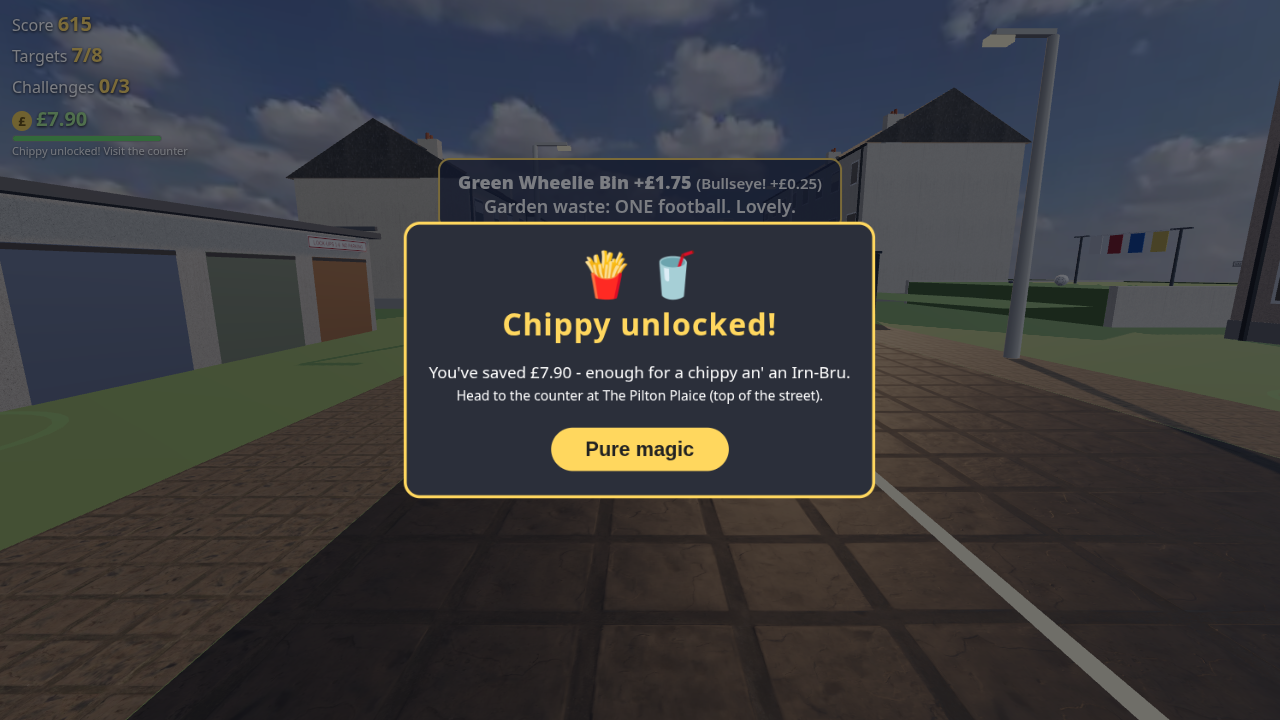
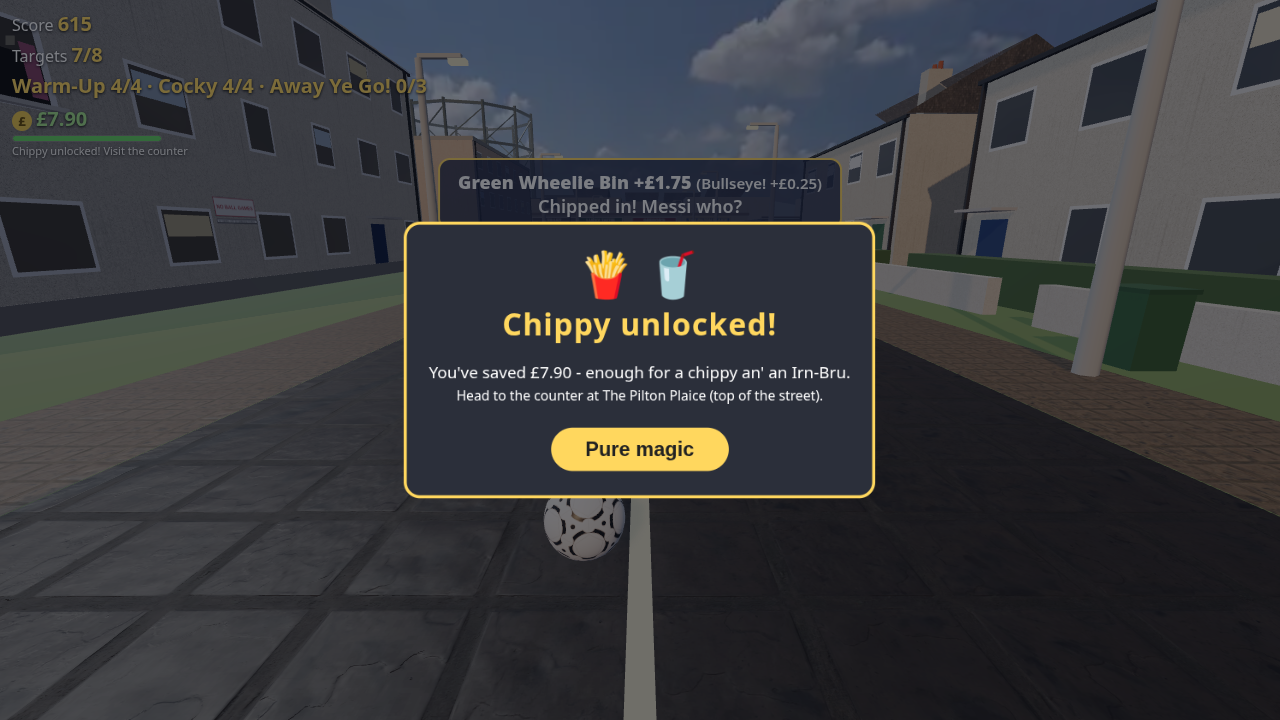
WIP Phase 5: tiers, Street Legend/Pilton Special balls, chippy menu (Wee Supper, Munchie Box), per-level saves, unlock toasts, trainers/boots, BALL rescue 10p, tests

diff --git a/src/main.js b/src/main.js
@@ -4,7 +4,7 @@ import * as CANNON from 'cannon-es';
 import { HDRLoader } from 'three/examples/jsm/loaders/HDRLoader.js';
 import { PRESET, PRESET_SOURCE, SHOW_PERF, DYNRES, choosePreset } from './settings.js';
 import { LEVEL, LEVELS, LEVEL_ORDER, travelTo } from './levels/index.js';
-import { unlocks, completeChallenge, selectBall, resetProgress, BALLS, ITEMS, REWARDS, saveUnlocks } from './unlocks.js';
+import { unlocks, recordDone, levelDone, tierCount, TIERS, selectBall, selectBoots, BOOTS, resetProgress, BALLS, ITEMS, saveUnlocks } from './unlocks.js';
 import { wallet, saveWallet, earn, buySupper, resetWallet, fmt, GOAL, BONUS, cashFor } from './wallet.js';
 import { ballTexture, skyTexture, texManager, texStats } from './textures.js';
 import { Sfx } from './audio.js';
@@ -86,6 +86,8 @@ const { targets, dynamics, pigeons, materials, views } = built;
 const SPAWN_YAW = LEVEL.spawnYaw * Math.PI / 180, BOUNDS = LEVEL.bounds;
 const challenges = built.challenges || [];
 const allTargets = targets.concat(challenges); // challenges share the scoring code but have their own counter
+for (const t of targets) t.tier ||= t.diff === 'hard' ? 'tricky' : 'easy';
+{ const d = levelDone(LEVEL.id); for (const t of allTargets) if (d[t.id]) { t.done = true; t.ring.material.color.set(0x5fd35f); } } // saved progress
 const targetById = Object.fromEntries(allTargets.map((t) => [t.id, t]));
 // Static bodies were positioned after construction: refresh their AABBs once, or AABB broadphase misses them.
 // (This stale-AABB effect is also what made SAPBroadphase look "broken" in v1.)
@@ -113,14 +115,27 @@ const balls = BALL_HOMES.map(([x, y, z]) => {
 });
 
 // boot (kick animation), attached to the camera: one mesh
-const bootGeo = (() => {
-  const a = new THREE.BoxGeometry(0.12, 0.5, 0.12).translate(0, 0.25, 0).toNonIndexed(), b = new THREE.BoxGeometry(0.14, 0.1, 0.28).translate(0, 0, -0.08).toNonIndexed();
-  const col = (g, c) => { const k = new THREE.Color(c), n = g.attributes.position.count, arr = new Float32Array(n * 3); for (let i = 0; i < n; i++) arr.set([k.r, k.g, k.b], i * 3); g.setAttribute('color', new THREE.BufferAttribute(arr, 3)); return g; };
-  col(a, 0x24324a); col(b, 0x111111);
-  const g = new THREE.BufferGeometry();
-  for (const k of ['position', 'normal', 'uv', 'color']) { const x = a.attributes[k], y = b.attributes[k], arr = new Float32Array(x.array.length + y.array.length); arr.set(x.array); arr.set(y.array, x.array.length); g.setAttribute(k, new THREE.BufferAttribute(arr, x.itemSize)); }
+// a scuffed trainer (default) or unlockable classic black boots, with shin; cosmetic only (no physics)
+function footGeo(style) {
+  const parts = [], B = (w, h, d, x, y, z, c) => parts.push([new THREE.BoxGeometry(w, h, d).translate(x, y, z).toNonIndexed(), c]);
+  B(0.11, 0.48, 0.11, 0, 0.33, 0.01, 0x3b4a63); // trouser shin
+  B(0.105, 0.07, 0.105, 0, 0.08, 0.01, style === 'boots' ? 0x101010 : 0xe8e8e4); // sock / collar
+  if (style === 'boots') {
+    B(0.13, 0.085, 0.27, 0, 0.035, -0.07, 0x141414); B(0.12, 0.05, 0.08, 0, 0.02, -0.19, 0x1c1c1c); B(0.135, 0.022, 0.285, 0, -0.016, -0.07, 0x2a2a2a);
+    for (const z of [-0.17, -0.09, 0.02]) for (const x of [-0.045, 0.045]) B(0.022, 0.02, 0.022, x, -0.035, z, 0x8a8a8a); // studs
+    B(0.03, 0.006, 0.12, 0, 0.08, -0.08, 0xdddddd); // white laces
+  } else {
+    B(0.135, 0.09, 0.26, 0, 0.035, -0.07, 0xdedcd6); B(0.125, 0.06, 0.08, 0, 0.02, -0.18, 0xc9c6bf); // upper + scuffed toe
+    B(0.145, 0.035, 0.285, 0, -0.012, -0.07, 0x8d8f93); B(0.04, 0.007, 0.12, 0, 0.082, -0.07, 0x9a9a9a); // sole, laces
+    B(0.137, 0.03, 0.06, 0, 0.03, -0.205, 0x6f6a62); // mucky scuff
+  }
+  const g = new THREE.BufferGeometry(), cols = [];
+  for (const [p, c] of parts) { const k = new THREE.Color(c), n = p.attributes.position.count, arr = new Float32Array(n * 3); for (let q = 0; q < n; q++) arr.set([k.r, k.g, k.b], q * 3); p.setAttribute('color', new THREE.BufferAttribute(arr, 3)); }
+  for (const k of ['position', 'normal', 'uv', 'color']) { const tot = parts.reduce((a, [p]) => a + p.attributes[k].array.length, 0), arr = new Float32Array(tot); let o = 0;
+    for (const [p] of parts) { arr.set(p.attributes[k].array, o); o += p.attributes[k].array.length; } g.setAttribute(k, new THREE.BufferAttribute(arr, parts[0][0].attributes[k].itemSize)); }
   return g;
-})();
+}
+const bootGeo = footGeo(unlocks.boots);
 const boot = new THREE.Mesh(bootGeo, materials.flat);
 boot.position.set(0.18, -1.05, -0.35); camera.add(boot);
 let kickAnim = 1;
@@ -131,7 +146,8 @@ const sfx = new Sfx();
 let score = 0, started = false, paused = true, chargeT0 = 0, toastTimer = 0;
 function toast(text, ms = 2400) { const el = $('toast'); el.innerHTML = text; el.classList.add('show'); clearTimeout(toastTimer); toastTimer = setTimeout(() => el.classList.remove('show'), ms); }
 function updateHud() { $('scoreVal').textContent = score; $('targetVal').textContent = `${targets.filter((t) => t.done).length}/${targets.length}`;
-  $('chal').classList.toggle('hidden', !challenges.length); if (challenges.length) $('chalVal').textContent = `${challenges.filter((c) => unlocks.done[c.id]).length}/${challenges.length}`; }
+  const tc = (tier) => `${tierCount(LEVEL.id, allTargets, tier)}/${allTargets.filter((x) => x.tier === tier).length}`;
+  $('chal').classList.remove('hidden'); $('chalVal').textContent = `Warm-Up ${tc('easy')} · Cocky ${tc('tricky')}` + (challenges.length ? ` · Away Ye Go! ${tc('legend')}` : ''); }
 updateHud();
 // ---------- wallet (pocket money) ----------
 let lastEarn = null;
@@ -159,34 +175,44 @@ function checkCounter() { // the chippy counter (West Pilton): buy a supper when
   if (!built.counter || simTime < counterCool) return;
   if (Math.hypot(player.position.x - built.counter.x, player.position.z - built.counter.z) > 1.8) return;
   counterCool = simTime + 4;
-  if (unlocks.items.includes('mars')) { openCounter(); return; }
-  if (buySupper()) { updateWallet(true); showGoal(true); }
-  else toast(`<b>The Pilton Plaice</b><br>"A supper's ${fmt(GOAL.pence)}, pal. You've got ${fmt(wallet.pence)}. Away an' hit some targets."`, 3000);
+  openCounter();
 }
+const MENU = ['wee', 'supper', 'munchie'];
 function openCounter() {
-  const m = ITEMS.mars;
   $('cntWallet').textContent = fmt(wallet.pence);
-  $('cntSupper').disabled = wallet.pence < GOAL.pence; $('cntMars').disabled = wallet.pence < m.pence;
+  for (const id of MENU) { const b = $('cnt_' + id), m = ITEMS[id], on = unlocks.items.includes(id);
+    b.textContent = on ? `${m.name} ${fmt(m.pence)}` : `🔒 ${m.name} (${m.how})`; b.disabled = !on || wallet.pence < m.pence; }
   $('cntLine').innerHTML = '"What can I get ye, pal?"';
   $('counterCard').classList.remove('hidden'); if (document.pointerLockElement) document.exitPointerLock();
 }
 function buyItem(id) {
   const m = ITEMS[id]; if (!m || !unlocks.items.includes(id) || wallet.pence < m.pence) return false;
-  wallet.pence -= m.pence; saveWallet(); unlocks.bought[id] = (unlocks.bought[id] || 0) + 1; saveUnlocks(); updateWallet(true); return true;
+  if (id === 'supper') { if (!buySupper()) return false; } else { wallet.pence -= m.pence; saveWallet(); }
+  unlocks.bought[id] = (unlocks.bought[id] || 0) + 1; saveUnlocks(); updateWallet(true); return true;
 }
-$('cntSupper').addEventListener('click', () => { if (buySupper()) { $('counterCard').classList.add('hidden'); updateWallet(true); showGoal(true); } });
-$('cntMars').addEventListener('click', () => { if (buyItem('mars')) { $('cntLine').innerHTML = ITEMS.mars.line + `<br><small>Bought: ${unlocks.bought.mars}</small>`; $('cntWallet').textContent = fmt(wallet.pence); $('cntMars').disabled = wallet.pence < ITEMS.mars.pence; $('cntSupper').disabled = wallet.pence < GOAL.pence; sfx.success(false); } });
+for (const id of MENU) $('cnt_' + id).addEventListener('click', () => {
+  if (!buyItem(id)) return;
+  if (id === 'supper') { $('counterCard').classList.add('hidden'); showGoal(true); return; }
+  $('cntLine').innerHTML = ITEMS[id].line; sfx.success(false); openCounterRefresh();
+});
+function openCounterRefresh() { const l = $('cntLine').innerHTML; openCounter(); $('cntLine').innerHTML = l; }
 $('cntClose').addEventListener('click', () => { $('counterCard').classList.add('hidden'); if (started && !paused && !controls.touch) renderer.domElement.requestPointerLock?.(); });
 // ---------- ball selector (cosmetic only: same body, mass, size) ----------
 function applyBall(id) { if (!selectBall(id)) return false; ballMat.map = ballTexture(id); ballMat.needsUpdate = true; buildBallMenu(); return true; }
+function applyBoots(id) { if (!selectBoots(id)) return false; boot.geometry.dispose(); boot.geometry = footGeo(id); buildBallMenu(); return true; }
 function buildBallMenu() {
-  const el = $('ballSel'); el.innerHTML = 'Ball: ';
+  const el = $('ballSel'); el.innerHTML = '';
+  const row = document.createElement('div'); row.textContent = 'Feet: ';
+  for (const [id, b] of Object.entries(BOOTS)) { const on = unlocks.bootsOwned.includes(id); const btn = document.createElement('button');
+    btn.textContent = on ? b.name : `🔒 ${b.name} (${b.how})`; btn.disabled = !on; btn.dataset.boots = id; if (unlocks.boots === id) btn.classList.add('on');
+    btn.addEventListener('click', () => applyBoots(id)); row.appendChild(btn); }
+  el.appendChild(row); el.appendChild(document.createTextNode('Ball: '));
   for (const [id, b] of Object.entries(BALLS)) { const on = unlocks.balls.includes(id); const btn = document.createElement('button');
-    btn.textContent = on ? b.name : '🔒 ' + b.name; btn.disabled = !on; btn.dataset.ball = id; if (unlocks.ball === id) btn.classList.add('on');
+    btn.textContent = on ? b.name : `🔒 ${b.name} (${b.how})`; btn.disabled = !on; btn.dataset.ball = id; if (unlocks.ball === id) btn.classList.add('on');
     btn.addEventListener('click', () => applyBall(id)); el.appendChild(btn); }
 }
 buildBallMenu();
-$('progressReset').addEventListener('click', () => { if (confirm('Reset challenges and unlocks (balls, chippy items)? Your pocket money is kept.')) { resetProgress(); ballMat.map = ballTexture('tango'); ballMat.needsUpdate = true; buildBallMenu(); updateHud(); } });
+$('progressReset').addEventListener('click', () => { if (confirm('Reset progress: completed targets, unlocked balls/boots and chippy items? (Pocket money has its own reset.)')) { resetProgress(); ballMat.map = ballTexture('tango'); ballMat.needsUpdate = true; boot.geometry = footGeo('trainers'); buildBallMenu(); updateHud(); } });
 // ---------- levels ----------
 $('levelNow').textContent = LEVEL.name; $('levelBlurb').textContent = LEVEL.blurb;
 document.querySelectorAll('[data-level]').forEach((b) => { if (b.dataset.level === LEVEL.id) b.classList.add('on'); b.addEventListener('click', () => { if (b.dataset.level !== LEVEL.id) travelTo(b.dataset.level); }); });
@@ -204,7 +230,7 @@ $('perfBtn').addEventListener('click', () => setPerf(!perfOn));
 addEventListener('keydown', (e) => { if (e.code === 'KeyP') setPerf(!perfOn); });
 
 const controls = new Controls(renderer.domElement, {
-  jump, fetchBall,
+  jump, fetchBall: () => requestBall(),
   requestLock: () => { if (started) renderer.domElement.requestPointerLock?.(); },
   unlocked: () => { if (started && $('goalCard').classList.contains('hidden') && $('counterCard').classList.contains('hidden')) pause(); },
   pause,
@@ -261,6 +287,21 @@ function fetchBall() {
   release(b); trap(b, x, y, z); lastTouched = b;
   toast('Here\'s your ba\' - foot on it. Kick, or walk off to let it go.', 1600);
 }
+// BALL is a rescue, not a shortcut: free if stuck / out of reach / far; 10p for the wee boy otherwise; refused when it's right there
+const BALL_FEE = 10; let ballMsg = '';
+function requestBall() {
+  if (paused) return 'paused';
+  const b = lastTouched || nearestBall(), p = b.body.position, d = Math.hypot(p.x - player.position.x, p.z - player.position.z);
+  const stuck = d > 4 && simTime - (b.stillT ?? simTime) > 4, high = p.y - player.position.y > 2.2, out = Math.abs(p.x) > BOUNDS.x - 1 || p.z < BOUNDS.zMin + 1 || p.z > BOUNDS.zMax - 1 || p.y < -2;
+  const free = d > 25 || stuck || high || out;
+  if (!free && d < 8) { ballMsg = 'near'; toast("<b>Go get it yersel!</b><br>It's right there, ya lazy article.", 1800); return ballMsg; }
+  if (!free && wallet.pence < BALL_FEE) { ballMsg = 'skint'; toast("<b>Ye're skint.</b><br>The wee boy wants 10p. Go an' fetch it yersel.", 2000); return ballMsg; }
+  if (!free) { wallet.pence -= BALL_FEE; saveWallet(); updateWallet(true); }
+  fetchBall();
+  ballMsg = free ? 'free' : 'paid';
+  toast(free ? "<b>Rescued!</b><br>A wee boy got it back for nothin'. Lucky." : `<b>-${fmt(BALL_FEE)}</b><br>Paid a wee boy tae fetch it. "Pleasure doin' business."`, 1800);
+  return ballMsg;
+}
 let lastKickInfo = null;
 function kick(power) {
   kickAnim = 0;
@@ -306,7 +347,8 @@ let lastRepeat = 0;
 function scoreTarget(t, bonus = null) {
   const now = performance.now();
   if (t.done) { if (now - lastRepeat > 2500) { lastRepeat = now; toast(`Already bagged the ${t.name}.`, 1200); } return; }
-  if (t.challenge) return scoreChallenge(t);
+  const rec = recordDone(LEVEL.id, t, allTargets); announce(rec.news);
+  if (t.challenge) return scoreChallenge(t, rec.first);
   t.done = true; score += t.points;
   const pence = cashFor(t) + (bonus ? BONUS : 0);
   lastEarn = { id: t.id, pence, bonus };
@@ -320,19 +362,18 @@ function scoreTarget(t, bonus = null) {
   if (all) setTimeout(() => toast(`<b>Pure dead brilliant!</b><br>All ${targets.length} targets done in ${LEVEL.name}.<br><small>Pause to restart, or travel to ${LEVELS[LEVEL.next].name}.</small>`, 7000), 2600);
   updateHud();
 }
-function scoreChallenge(t) {
-  t.done = true;
-  const reward = completeChallenge(t.id); // null if already unlocked earlier (fires once)
+function announce(news) { // each unlock fires once ever: short sound + toast
+  if (!news.length) return; lastUnlock = news;
+  setTimeout(() => { sfx.success(true); toast(`<b>Unlocked!</b><br>${news.map((n) => n.text).join('<br>')}`, 4000); buildBallMenu(); }, 2300);
+}
+function scoreChallenge(t, first) {
+  t.done = true; t.ring.material.color.set(0x5fd35f);
   const line = t.lines[Math.floor(Math.random() * t.lines.length)];
-  if (!reward) { toast(`<b>${t.name}</b> - done again!<br>${line}`, 2400); sfx.success(false); return; }
-  const pence = (t.cash || 0) + (reward.cash || 0); if (pence) { const reached = earn(pence); updateWallet(true); if (reached) setTimeout(showGoal, 4500); }
-  lastEarn = { id: t.id, pence, bonus: null }; lastUnlock = { id: t.id, ...reward };
-  toast(`<b>CHALLENGE! ${t.name.replace('Challenge: ', '')}</b>${pence ? ' +' + fmt(pence) : ''}<br>${line}`, 3500);
-  sfx.success(true); setTimeout(() => sfx.success(true), 350);
-  $('goalTitle').textContent = 'Unlocked!'; $('goalBig').textContent = reward.ball ? '⚽' : reward.item ? '🍫' : '🏆';
-  $('goalLine').innerHTML = `<b>${t.name.replace('Challenge: ', '')}</b><br>${reward.text}<br><small>Challenges: ${challenges.filter((c) => unlocks.done[c.id]).length}/${challenges.length}</small>`;
-  $('goalCard').classList.remove('hidden'); if (document.pointerLockElement) document.exitPointerLock();
-  buildBallMenu(); updateHud();
+  if (!first) { toast(`<b>${t.name}</b> - again!<br>${line}`, 2400); sfx.success(false); return; }
+  const pence = t.cash || 0; if (pence) { const reached = earn(pence); updateWallet(true); if (reached) setTimeout(showGoal, 4500); }
+  lastEarn = { id: t.id, pence, bonus: null };
+  toast(`<b>AWAY YE GO! ${t.name}</b>${pence ? ' +' + fmt(pence) : ''}<br>${line}`, 3500); sfx.success(true);
+  updateHud();
 }
 let lastUnlock = null;
 function restart() {
@@ -375,6 +416,8 @@ let simTime = 0, acc = 0, autopilot = null;
 const prevPlayer = new THREE.Vector3().copy(player.position);
 let moveInput = { x: 0, y: 0, run: false };
 function fixedUpdate(h) {
+  for (const b of balls) { const q = b.body.position; if (!b.stillP || Math.hypot(q.x - b.stillP.x, q.y - b.stillP.y, q.z - b.stillP.z) > 0.3) { b.stillP = { x: q.x, y: q.y, z: q.z }; b.stillT = simTime; } }
+
   simTime += h;
   const now = performance.now();
   for (const b of balls) { b.prevP.copy(b.body.position); b.prevQ.copy(b.body.quaternion); }
@@ -450,7 +493,7 @@ function render(dt, t) {
     if (!tg.done && d < 14 && d < nd) { nd = d; near = tg; }
   }
   $('nearby').textContent = near ? (near.challenge ? `${near.name} - ${near.hint}` : `Nearby: ${near.name} - ${near.hint} (${fmt(cashFor(near))})`) : '';
-  if (built.sparkles) { const left = challenges.some((c) => !unlocks.done[c.id]); built.sparkles.visible = left; built.sparkles.material.opacity = 0.25 + 0.3 * (0.5 + 0.5 * Math.sin(t * 0.004)); }
+  if (built.sparkles) { const left = challenges.some((c) => !levelDone(LEVEL.id)[c.id]); built.sparkles.visible = left; built.sparkles.material.opacity = 0.25 + 0.3 * (0.5 + 0.5 * Math.sin(t * 0.004)); }
   pigeons.list.forEach((pg, i) => {
     if (pg.state === 'idle') {
       pg.t -= dt; if (pg.t < 0) { pg.t = 1 + Math.random() * 3; pg.rot += (Math.random() - 0.5) * 2; }
@@ -512,7 +555,7 @@ window.__game = {
   get score() { return score; }, get assetsLoaded() { return assetsLoaded; }, get simTime() { return simTime; }, get resScale() { return resScale; },
   get yaw() { return yaw; }, get pitch() { return pitch; }, get lastKick() { return lastKickInfo; }, get textureMemoryMB() { return +(texStats.bytes / 1048576).toFixed(1); },
   preset: P.name, presetSource: PRESET_SOURCE, views, FIXED, level: LEVEL.id, levelName: LEVEL.name, levels: LEVEL_ORDER, travelTo, counter: built.counter || null,
-  get wallet() { return { ...wallet }; }, challenges, get unlocks() { return JSON.parse(JSON.stringify(unlocks)); }, get lastUnlock() { return lastUnlock; }, applyBall, buyItem, resetProgress() { resetProgress(); buildBallMenu(); updateHud(); }, get ballMap() { return ballMat.map; }, openCounter, get lastEarn() { return lastEarn; }, resetWallet() { resetWallet(); updateWallet(); }, GOAL, scoreTarget,
+  get wallet() { return { ...wallet }; }, challenges, get unlocks() { return JSON.parse(JSON.stringify(unlocks)); }, get lastUnlock() { return lastUnlock; }, applyBall, applyBoots, get bootTris() { return boot.geometry.attributes.position.count / 3; }, requestBall, get ballMsg() { return ballMsg; }, buyItem, resetProgress() { resetProgress(); buildBallMenu(); updateHud(); }, get ballMap() { return ballMat.map; }, openCounter, get lastEarn() { return lastEarn; }, resetWallet() { resetWallet(); updateWallet(); }, GOAL, scoreTarget,
   waitSim(sec) { const t0 = simTime; return new Promise((res) => { const f = () => (simTime - t0 >= sec ? res() : setTimeout(f, 30)); f(); }); }, targets, balls, player,
   start: () => { started = true; paused = false; $('overlay').classList.add('hidden'); },
   teleport(x, z, yawDeg, pitchDeg = -15, y) { player.position.set(x, y ?? player.position.y, z); player.velocity.setZero(); prevPlayer.copy(player.position); yaw = yawDeg * Math.PI / 180; pitch = pitchDeg * Math.PI / 180; },

diff --git a/src/levels/pilton.js b/src/levels/pilton.js
@@ -215,14 +215,14 @@ function build(scene, world, mats, P) {
   { const z = GZ0 + 3.5 * GW;
     solid('wood', -10.05, 1.05, z, 0.1, 2.1, 2.4, 0x8e1c1c, { target: 'garage' });
     quad('atlas', -9.99, 1.05, z, 2.4, 2.1, Math.PI / 2, atlas.draw(256, 224, (g) => { g.fillStyle = '#c9c4ba'; g.fillRect(0, 0, 256, 224); g.strokeStyle = '#fff'; g.lineWidth = 10; g.strokeRect(28, 30, 200, 194); g.beginPath(); g.moveTo(28, 110); g.lineTo(228, 110); g.stroke(); for (let y = 0; y < 224; y += 22) { g.fillStyle = 'rgba(0,0,0,0.08)'; g.fillRect(0, y, 256, 3); } g.fillStyle = '#c8102e'; g.font = 'bold 26px Arial'; g.fillText('No 4  - SHOOT HERE', 40, 80); }));
-    addTarget({ id: 'garage', name: 'Garage Door No.4', hint: 'skelp the painted goal', points: 40, cash: 40, diff: 'easy', kind: 'hit', pos: V(-9.6, 0, z), ringR: 1.3, stand: V(-3, 0, z), aim: V(-10, 0.6, z),
+    addTarget({ id: 'garage', name: 'Garage Door No.4', hint: 'skelp the painted goal', points: 40, cash: 40, diff: 'easy', tier: 'easy', kind: 'hit', pos: V(-9.6, 0, z), ringR: 1.3, stand: V(-3, 0, z), aim: V(-10, 0.6, z),
       lines: ["BOOM! Wee Tam's da is coming oot.", 'Top bins! Well... middle bins.', 'That door has taken a few.'] }); }
   // 2. Shopping trolley on the verge (easy)
   { const x = 7.6, z = 12;
     for (const [w, h, d, y] of [[0.6, 0.04, 0.9, 0.3], [0.6, 0.5, 0.03, 0.6], [0.03, 0.5, 0.9, 0.6]]) for (const o of (d < 0.1 ? [-0.45, 0.45] : w < 0.1 ? [-0.3, 0.3] : [0])) solid('metal', x + (w < 0.1 ? o : 0), y, z + (d < 0.1 ? o : 0), w, h, d, 0xa7adb2, { phys: false, rz: 0.12 });
     solid('flat', x, 0.86, z - 0.5, 0.6, 0.06, 0.06, 0xd0302a, { phys: false });
     boxBody(x, 0.55, z, 0.62, 0.9, 0.92, { target: 'trolley' });
-    addTarget({ id: 'trolley', name: 'Abandoned Trolley', hint: 'hit the trolley', points: 50, cash: 50, diff: 'easy', kind: 'hit', pos: V(x, 0, z), ringR: 1.0, stand: V(3.2, 0, z), aim: V(x, 0.5, z),
+    addTarget({ id: 'trolley', name: 'Abandoned Trolley', hint: 'hit the trolley', points: 50, cash: 50, diff: 'easy', tier: 'easy', kind: 'hit', pos: V(x, 0, z), ringR: 1.0, stand: V(3.2, 0, z), aim: V(x, 0.5, z),
       lines: ['Clang! Take it back for the pound.', "It's been there since 1997. Respect.", 'Supermarket sweep!'] }); }
   // 3. Bus stop shelter (medium)
   { const x = 5.6, z = -2;
@@ -233,43 +233,44 @@ function build(scene, world, mats, P) {
     cyl('metal', x - 0.4, 1.5, z + 2.2, 0.05, 0.05, 3, 0x333333, { seg: 6, target: 'busstop' });
     sign('BUS STOP  21 27 37', x - 0.4, 2.75, z + 2.2, 0.55, 0.42, -Math.PI / 2, '#c8102e', '#fff', 'bold 40px Arial', '#fff');
     sign('NEXT BUS: AYE, RIGHT', x + 1.12, 2.1, z, 1.8, 0.24, -Math.PI / 2, '#111', '#ffb000', 'bold 44px Courier New');
-    addTarget({ id: 'busstop', name: 'Bus Stop', hint: 'hit the shelter', points: 75, cash: 75, diff: 'medium', kind: 'hit', pos: V(x + 0.5, 0, z), ringR: 1.6, stand: V(1.2, 0, z), aim: V(x + 0.6, 1.0, z),
+    addTarget({ id: 'busstop', name: 'Bus Stop', hint: 'hit the shelter', points: 75, cash: 75, diff: 'medium', tier: 'easy', kind: 'hit', pos: V(x + 0.5, 0, z), ringR: 1.6, stand: V(1.2, 0, z), aim: V(x + 0.6, 1.0, z),
       lines: ["Three 21s turn up at once.", "Driver: 'Exact fare, pal.'", 'Shelter rattled. Nae bus, mind.'] }); }
   // 4. Lamppost (medium): the one with a missing-cat poster
   { const x = -5.6, z = 0; lamp(x, z, -1, 'lamp'); quad('atlas', x + 0.15, 1.6, z, 0.3, 0.4, Math.PI / 2, atlas.sign('LOST CAT', '#fff', '#111', 0.75, 'bold 30px Arial'));
-    addTarget({ id: 'lamp', name: 'Lamppost (lost cat)', hint: 'ping the post', points: 75, cash: 75, diff: 'medium', kind: 'hit', pos: V(x, 0, z), ringR: 0.8, stand: V(-2.2, 0, z), aim: V(x, 0.6, z),
+    addTarget({ id: 'lamp', name: 'Lamppost (lost cat)', hint: 'ping the post', points: 75, cash: 75, diff: 'medium', tier: 'easy', kind: 'hit', pos: V(x, 0, z), ringR: 0.8, stand: V(-2.2, 0, z), aim: V(x, 0.6, z),
       lines: ['PING! The cat has not been found.', 'Concrete clang!', 'Off the post and doon.'] }); }
   // 5. Communal bin by the garages (medium chip)
   { const x = -7.4, z = 24.5; const zone = bin(x, z, 1.3, 1.0, 1.25, 0x3f5a3f);
     solid('flat', x - 0.79, 1.68, z, 0.06, 0.9, 1.0, 0x2f4a2f, { rz: 0.3 }); // open lid, hinged at the back (away from the street)
     sign('RECYCLING', x + 0.66, 0.75, z, 0.9, 0.18, Math.PI / 2, '#2f4a2f', '#fff', 'bold 60px Arial');
-    addTarget({ id: 'bin', name: 'Communal Bin', hint: 'chip it IN the bin', points: 100, cash: 100, diff: 'medium', kind: 'zone', openTop: true, pos: V(x, 0, z), ringR: 1.3, stand: V(-1.5, 0, z), aim: V(x, 0.6, z), zone,
+    addTarget({ id: 'bin', name: 'Communal Bin', hint: 'chip it IN the bin', points: 100, cash: 100, diff: 'medium', tier: 'tricky', kind: 'zone', openTop: true, pos: V(x, 0, z), ringR: 1.3, stand: V(-1.5, 0, z), aim: V(x, 0.6, z), zone,
       lines: ['In the bucket! The cooncil thanks you.', 'Recycling? Close enough.', 'Bin day came early.'] }); }
   // 6. Drying green: through the poles (hard), up the bank
-  addTarget({ id: 'gap', name: 'Drying Green Poles', hint: 'kick it between the poles (up the bank)', points: 125, cash: 125, diff: 'hard', kind: 'zone', pos: V(19, rise, -4), ringR: 1.0, stand: V(14.5, rise, -4), aim: V(22, rise + 0.3, -4),
+  addTarget({ id: 'gap', name: 'Drying Green Poles', hint: 'kick it between the poles (up the bank)', points: 125, cash: 125, diff: 'hard', tier: 'tricky', kind: 'zone', pos: V(19, rise, -4), ringR: 1.0, stand: V(14.5, rise, -4), aim: V(22, rise + 0.3, -4),
     zone: new THREE.Box3(V(18.7, rise, -5.9), V(19.3, rise + 2.1, -2.1)), minSpeed: 1,
     lines: ["Through the posts! Mind Mrs Kerr's sheets.", 'GOAL! The washing applauds.', 'Wembley? Naw. Pilton drying green.'] });
   // 7. Wheelie bin chip (hard): open green wheelie by the gate
   { const x = -6.6, z = -19.5; const zone = bin(x, z, 0.72, 0.82, 1.0, 0x2e5a34); zone.max.y += 0.15;
     solid('flat', x - 0.47, 1.25, z, 0.06, 0.55, 0.84, 0x244a2a, { rz: 0.5 }); // lid flipped open at the back
-    addTarget({ id: 'wheelie', name: 'Green Wheelie Bin', hint: 'chip it in the wee bin (hard!)', points: 150, cash: 150, diff: 'hard', kind: 'zone', openTop: true, pos: V(x, 0, z), ringR: 0.8, stand: V(-2.5, 0, z), aim: V(x, 0.6, z), zone,
+    addTarget({ id: 'wheelie', name: 'Green Wheelie Bin', hint: 'chip it in the wee bin (hard!)', points: 150, cash: 150, diff: 'hard', tier: 'tricky', kind: 'zone', openTop: true, pos: V(x, 0, z), ringR: 0.8, stand: V(-2.5, 0, z), aim: V(x, 0.6, z), zone,
       lines: ['Garden waste: ONE football. Lovely.', 'Chipped in! Messi who?', 'Brown bin? Naw, green. Still counts.'] }); }
   // 8. "NO BALL GAMES" sign on the block (cheeky, hard)
   { const x = 10.94, y = 2.4, z = -24;
     sign('NO BALL GAMES', x, y, z, 1.4, 0.5, -Math.PI / 2, '#f4f1ea', '#c8102e', 'bold 54px Arial', '#c8102e');
     sign('BY ORDER - CITY OF EDINBURGH COUNCIL', x, y - 0.36, z, 1.4, 0.14, -Math.PI / 2, '#f4f1ea', '#222', 'bold 30px Arial');
     boxBody(x - 0.02, y - 0.05, z, 0.06, 0.75, 1.5, { target: 'noballs' });
-    addTarget({ id: 'noballs', name: "'No Ball Games' Sign", hint: 'hit the sign. Go on.', points: 125, cash: 125, diff: 'hard', kind: 'hit', pos: V(x - 0.4, 0, z), ringR: 1.0, stand: V(6.2, 0, z), aim: V(x, y, z),
+    addTarget({ id: 'noballs', name: "'No Ball Games' Sign", hint: 'hit the sign. Go on.', points: 125, cash: 125, diff: 'hard', tier: 'tricky', kind: 'hit', pos: V(x - 0.4, 0, z), ringR: 1.0, stand: V(6.2, 0, z), aim: V(x, y, z),
       lines: ['Ironic. Very ironic.', "Mrs Kerr's at the windae. RUN.", 'The council will be hearing aboot this.'] }); }
 
   // ---------- optional CHALLENGES (experimental): hidden, hard, separate from the 8 targets ----------
   const challenges = [];
-  const addChallenge = (t) => { addTarget(t); targets.pop(); t.challenge = true; challenges.push(t); return t; };
+  const addChallenge = (t) => { addTarget(t); targets.pop(); t.challenge = true; t.tier = 'legend'; challenges.push(t); return t; };
   // C1. Garage roof: lob it up onto the lock-up roof (and keep it there long enough to count)
   { const yR = 2.86; solid('flat', -13.4, yR + 0.12, GZ0 + 0.1, 7.4, 0.12, 0.14, 0x55575a, { phys: true }); // wee upstand at the back edge
-    addChallenge({ id: 'c_roof', name: 'Challenge: On the Lock-up Roof', hint: 'lob it ONTO the garage roof', points: 0, cash: 100, kind: 'zone', pos: V(-13.4, yR, GZ0 + GN * GW / 2), ringR: 1.6,
+    addChallenge({ id: 'c_roof', name: 'On the Lock-up Roof', hint: 'there\'s a ba\' up there already...', points: 0, cash: 100, kind: 'zone', pos: V(-13.4, yR, GZ0 + GN * GW / 2), ringR: 1.6,
       stand: V(-2.5, 0, 12), aim: V(-13.4, yR + 0.3, 12), zone: new THREE.Box3(V(-16.9, yR, GZ0 + 0.2), V(-10.1, yR + 0.45, GZ0 + GN * GW - 0.2)),
       lines: ["It's up there wi' the other forty balls.", "Wee Tam's da: 'That's comin' oot yer pocket money.'"] }); }
+  { const old = new THREE.Mesh(new THREE.SphereGeometry(0.2, 8, 6).scale(1, 0.55, 1), new THREE.MeshLambertMaterial({ color: 0x9a6a3a })); old.position.set(-15.8, 3.0, 5.2); scene.add(old); } // clue: an old burst ba' already up there
   // C2. Mrs Kerr's open upstairs windae (2nd floor of the pitched-roof block)
   { const x = 10.96, y = 4.65, z = -28.5;
     quad('flat', x - 0.005, y, z, 1.45, 1.5, -Math.PI / 2, null, 0xf2f2f0);
@@ -278,10 +279,10 @@ function build(scene, world, mats, P) {
     quad('flat', x - 0.02, y - 0.1, z + 0.45, 0.25, 0.9, -Math.PI / 2, null, 0xd77a9a); // curtain blowing
     solid('flat', x - 0.1, y - 0.7, z, 0.2, 0.08, 1.45, 0xd8d4cc, { phys: false }); // sill
     boxBody(x - 0.03, y - 0.05, z, 0.06, 1.05, 1.15, { target: 'c_window' });
-    addChallenge({ id: 'c_window', name: "Challenge: Mrs Kerr's Windae", hint: 'the open window, 2nd floor...', points: 0, cash: 100, kind: 'hit', pos: V(x - 0.6, 0, z), ringR: 1.0, stand: V(4.5, 0, z), aim: V(x, y, z),
+    addChallenge({ id: 'c_window', name: "Mrs Kerr's Windae", hint: 'somebody\'s left their windae open', points: 0, cash: 100, kind: 'hit', pos: V(x - 0.6, 0, z), ringR: 1.0, stand: V(4.5, 0, z), aim: V(x, y, z),
       lines: ["MRS KERR: 'WHO KICKED THAT?!'", 'Straight in the front room. Mind the good china.'] }); }
   // C3. Long-range drying green: through the poles from the far pavement (14 m+, up the bank)
-  addChallenge({ id: 'c_longpoles', name: 'Challenge: Worldie Through the Poles', hint: 'through the poles from the far side of the road', points: 0, cash: 0, kind: 'zone', pos: V(-4.6, 0, -4), ringR: 0.8,
+  addChallenge({ id: 'c_longpoles', name: 'Worldie Through the Poles', hint: 'the big boys shoot from the far pavement', points: 0, cash: 0, kind: 'zone', pos: V(-4.6, 0, -4), ringR: 0.8,
     stand: V(-4.6, 0, -4), aim: V(22, rise + 0.3, -4), minRange: 14, rangeFrom: V(19, rise, -4), zone: new THREE.Box3(V(18.7, rise + 0.3, -4.9), V(19.3, rise + 1.5, -3.1)), minSpeed: 1,
     lines: ['WORLDIE! Fiona would be proud.', 'From there?! Absolute screamer.'] });
   // faint sparkles mark the challenge spots (one Points draw call)

diff --git a/src/unlocks.js b/src/unlocks.js
@@ -1,19 +1,30 @@
-// Experimental achievements (West Pilton challenges) + cosmetic rewards. Saved on the device.
+// PHASE 5 "One More Shot": tiers, cosmetic unlocks and chippy menu. Saved on the device (localStorage 'ek-unlocks').
+// Tiers: easy = 'The Wee Warm-Up', tricky = 'Getting Cocky', legend = 'Away Ye Go!' (hidden optional challenges).
 const KEY = 'ek-unlocks';
-export const BALLS = { tango: { name: 'Tango-style (default)' }, winter: { name: "1980s Winter Orange" } };
-export const ITEMS = { mars: { name: 'Deep-fried Mars bar', pence: 120, line: "\"Deep-fried Mars bar, £1.20. Yer cardiologist's on line two.\"" } };
-// which challenge unlocks what
-export const REWARDS = { c_roof: { ball: 'winter', text: 'New ball: the 1980s Winter Orange (pick it in the pause menu)' }, c_window: { item: 'mars', text: 'The Pilton Plaice now sells Deep-fried Mars bars' }, c_longpoles: { cash: 200, text: 'Big-shot bonus: £2.00 pocket money' } };
-function load() { try { const u = JSON.parse(localStorage.getItem(KEY)); if (u && u.done) return { done: u.done, balls: u.balls || ['tango'], ball: u.ball || 'tango', items: u.items || [], bought: u.bought || {} }; } catch {} return { done: {}, balls: ['tango'], ball: 'tango', items: [], bought: {} }; }
+export const TIERS = { easy: 'The Wee Warm-Up', tricky: 'Getting Cocky', legend: 'Away Ye Go!' };
+export const BALLS = { tango: { name: 'Starter' }, winter: { name: 'Street Legend', how: 'Hit 3 Getting Cocky targets' }, special: { name: 'The Pilton Special', how: 'All 3 Away Ye Go! shots' } };
+export const BOOTS = { trainers: { name: 'Scuffed trainers' }, boots: { name: 'Classic black boots', how: 'All 3 Away Ye Go! shots' } };
+export const ITEMS = {
+  wee: { name: 'The Wee Supper', pence: 200, line: '"Wee bag o\' chips an\' a can. Dinnae fill yersel up."' },
+  supper: { name: 'Fish supper + Irn-Bru', pence: 650 },
+  munchie: { name: 'The Legendary Munchie Box', pence: 500, line: '"Doner, chips, pakora, onion rings, garlic sauce. Ye\'ll no\' sleep tonight."', how: 'Any Away Ye Go! shot' },
+};
+const fresh = () => ({ levels: {}, balls: ['tango'], ball: 'tango', boots: 'trainers', bootsOwned: ['trainers'], items: ['wee', 'supper'], bought: {} });
+function load() { try { const u = JSON.parse(localStorage.getItem(KEY)); if (u && u.levels) return { ...fresh(), ...u }; } catch {} return fresh(); }
 export const unlocks = load();
 export function saveUnlocks() { try { localStorage.setItem(KEY, JSON.stringify(unlocks)); } catch {} }
-// returns the reward the first time a challenge is completed, null afterwards (fires once)
-export function completeChallenge(id) {
-  if (unlocks.done[id]) return null;
-  unlocks.done[id] = true; const r = REWARDS[id] || {};
-  if (r.ball && !unlocks.balls.includes(r.ball)) unlocks.balls.push(r.ball);
-  if (r.item && !unlocks.items.includes(r.item)) unlocks.items.push(r.item);
-  saveUnlocks(); return r;
+export const levelDone = (lv) => (unlocks.levels[lv] ||= {});
+export function tierCount(lv, targets, tier) { const d = levelDone(lv); return targets.filter((t) => t.tier === tier && d[t.id]).length; }
+// record a completion; returns a list of new unlocks (each fires once, ever)
+export function recordDone(lv, t, all) {
+  const d = levelDone(lv); const first = !d[t.id]; d[t.id] = true; const news = [];
+  const add = (list, id, text) => { if (!list.includes(id)) { list.push(id); news.push({ id, text }); } };
+  const legends = all.filter((x) => x.tier === 'legend'), tricky = all.filter((x) => x.tier === 'tricky');
+  if (tricky.filter((x) => d[x.id]).length >= 3) add(unlocks.balls, 'winter', 'Ball unlocked: Street Legend');
+  if (legends.some((x) => d[x.id])) add(unlocks.items, 'munchie', 'The Pilton Plaice now does The Legendary Munchie Box');
+  if (legends.length && legends.every((x) => d[x.id])) { add(unlocks.balls, 'special', 'Ball unlocked: The Pilton Special'); add(unlocks.bootsOwned, 'boots', 'Classic black boots unlocked'); }
+  saveUnlocks(); return { first, news };
 }
 export function selectBall(id) { if (!unlocks.balls.includes(id)) return false; unlocks.ball = id; saveUnlocks(); return true; }
-export function resetProgress() { unlocks.done = {}; unlocks.balls = ['tango']; unlocks.ball = 'tango'; unlocks.items = []; unlocks.bought = {}; saveUnlocks(); }
+export function selectBoots(id) { if (!unlocks.bootsOwned.includes(id)) return false; unlocks.boots = id; saveUnlocks(); return true; }
+export function resetProgress() { Object.assign(unlocks, fresh()); saveUnlocks(); }

diff --git a/index.html b/index.html
@@ -12,7 +12,7 @@
 <div id="hud">
   <div id="score">Score <b id="scoreVal">0</b></div>
   <div id="targets">Targets <b id="targetVal">0/0</b></div>
-  <div id="chal" class="hidden">Challenges <b id="chalVal">0/3</b></div>
+  <div id="chal" class="hidden"><b id="chalVal"></b></div>
   <div id="wallet"><span class="coin">£</span> <b id="walletVal">£0.00</b>
     <div id="goalBar"><div id="goalFill"></div></div><div id="goalTxt"></div></div>
   <div id="nearby"></div>
@@ -29,7 +29,7 @@
   <button id="btnBall">BALL</button>
   <button id="btnPause">II</button>
 </div>
-<div id="counterCard" class="hidden"><div class="card goal"><div class="big">🐟</div><h1>The Pilton Plaice</h1><p id="cntLine"></p><p><small>Wallet: <b id="cntWallet"></b></small></p><button id="cntSupper">Fish supper + Irn-Bru £6.50</button> <button id="cntMars">Deep-fried Mars bar £1.20</button> <button id="cntClose" class="ghost">Just lookin'</button></div></div>
+<div id="counterCard" class="hidden"><div class="card goal"><div class="big">🐟</div><h1>The Pilton Plaice</h1><p id="cntLine"></p><p><small>Wallet: <b id="cntWallet"></b></small></p><button id="cnt_wee"></button> <button id="cnt_supper"></button> <button id="cnt_munchie"></button> <button id="cntClose" class="ghost">Just lookin'</button></div></div>
 <div id="goalCard" class="hidden"><div class="card goal"><div class="big" id="goalBig">🍟 🥤</div><h1 id="goalTitle">Chippy unlocked!</h1><p id="goalLine"></p><button id="goalOk">Pure magic</button></div></div>
 <div id="overlay">
   <div class="card">
@@ -42,12 +42,12 @@
         <ul><li><b>WASD</b> walk · <b>Shift</b> run · <b>Space</b> jump</li>
         <li><b>Mouse</b> look</li>
         <li><b>Hold &amp; release left click</b> to kick (aim up to chip it)</li>
-        <li><b>R</b> fetch nearest ball · <b>Esc</b> pause</li></ul></div>
+        <li><b>R</b> rescue a stuck/far ball (10p to a wee boy, free if stuck) · <b>Esc</b> pause</li></ul></div>
       <div class="mob"><h3>Touch</h3>
         <ul><li><b>Left thumb</b> joystick to walk (push far to run)</li>
         <li><b>Drag right side</b> to look</li>
         <li><b>Hold KICK</b>, release to shoot</li>
-        <li><b>BALL</b> fetches the ball · <b>JUMP</b></li></ul></div>
+        <li><b>BALL</b> rescues a stuck/far ball (10p) · <b>JUMP</b></li></ul></div>
     </div>
     <p class="sub"><span id="levelBlurb"></span> Glowing rings mark targets when you're near.</p>
     <div class="gfx">Graphics: <span id="presetNow"></span>
@@ -57,7 +57,7 @@
     <button id="restartBtn" class="ghost">Restart level</button>
     <button id="travelBtn" class="ghost">Travel</button>
     <button id="walletReset" class="ghost">Reset pocket money</button>
-    <button id="progressReset" class="ghost">Reset challenges &amp; unlocks</button>
+    <button id="progressReset" class="ghost">Reset progress</button>
     <div id="ballSel" class="ballsel"></div>
   </div>
 </div>

diff --git a/src/textures.js b/src/textures.js
@@ -180,6 +180,7 @@ export function ballTexture(style = 'tango') {
     }
     const k = acc / (SS * SS), s = seam / (SS * SS), o = (py * W + px) * 4;
     let r = 244 - k * 226, gg = 243 - k * 225, b = 238 - k * 220;
+    if (style === 'special') { const pk = pent / (SS * SS); r = 22 + pk * 212; gg = 92 + pk * 86; b = 52 - pk * 14; }
     if (style === 'winter') { const pk = pent / (SS * SS); r = 246 - pk * 226; gg = 118 - pk * 100; b = 24 - pk * 8; }
     r -= s * 45; gg -= s * 45; b -= s * 42;
     d[o] = r; d[o + 1] = gg; d[o + 2] = b; d[o + 3] = 255;
